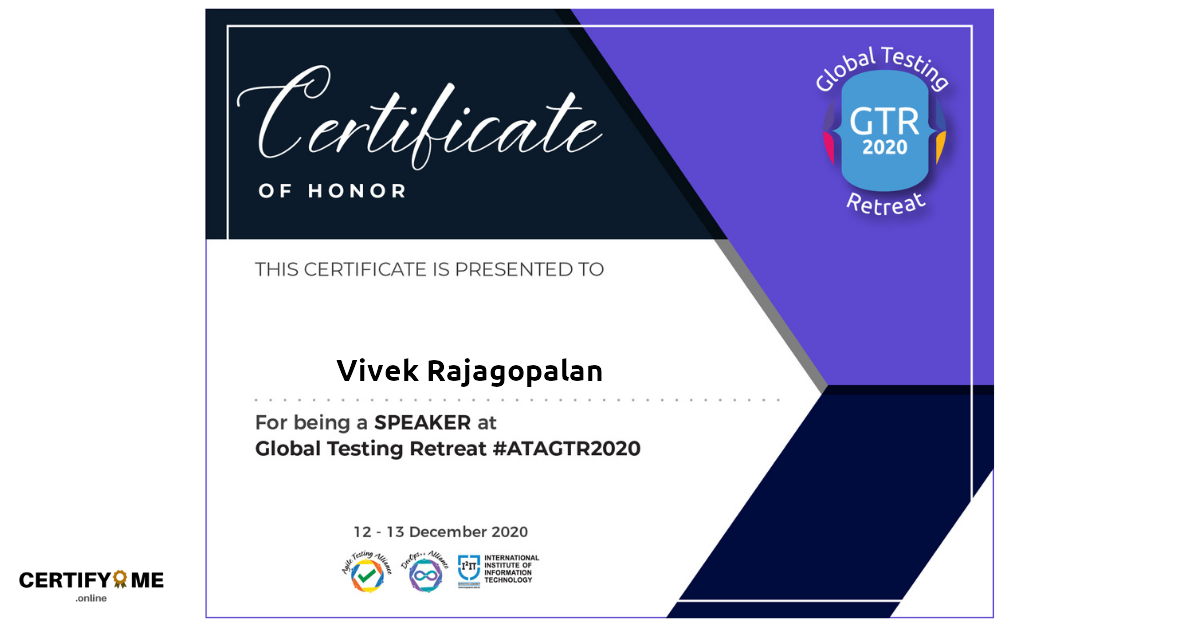
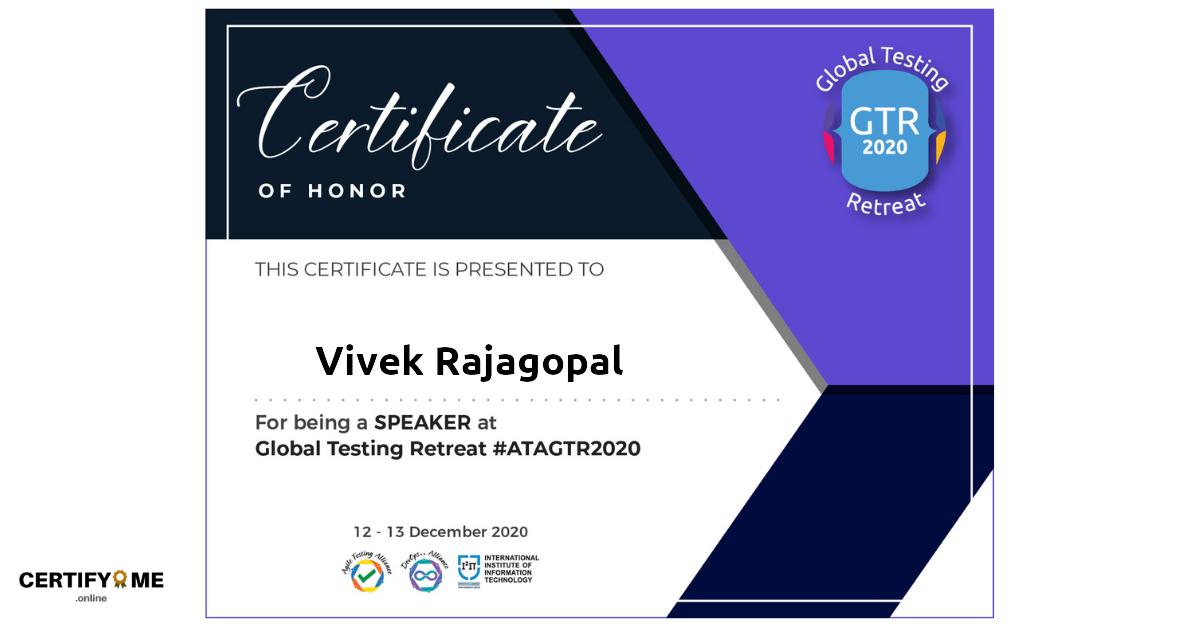
fix

Changed region(s): [[0.2467, 0.5455, 0.5242, 0.6364]]

diff --git a/_ATAGTR2020/speaker/VivekRajagopalan_741a9.md b/_ATAGTR2020/speaker/VivekRajagopalan_741a9.md
@@ -1,5 +1,5 @@
 --- 
 layout : newCert 
-issuedTo: Vivek Rajagopalan
+issuedTo: Vivek Rajagopal
 certificatePath: https://certifyme.online/ATAGTR2020/img/cert/speaker/VivekRajagopalan_741a9.png
 --- 

diff --git a/_ATAGTR2020/volunteer/PallavaiSharma_f6c73.md b/_ATAGTR2020/volunteer/PallavaiSharma_f6c73.md
@@ -1,5 +1,5 @@
 --- 
 layout : newCert 
-issuedTo: Pallavai Sharma
+issuedTo: Pallavai Sharrma
 certificatePath: https://certifyme.online/ATAGTR2020/img/cert/volunteer/PallavaiSharma_f6c73.png
 --- 
